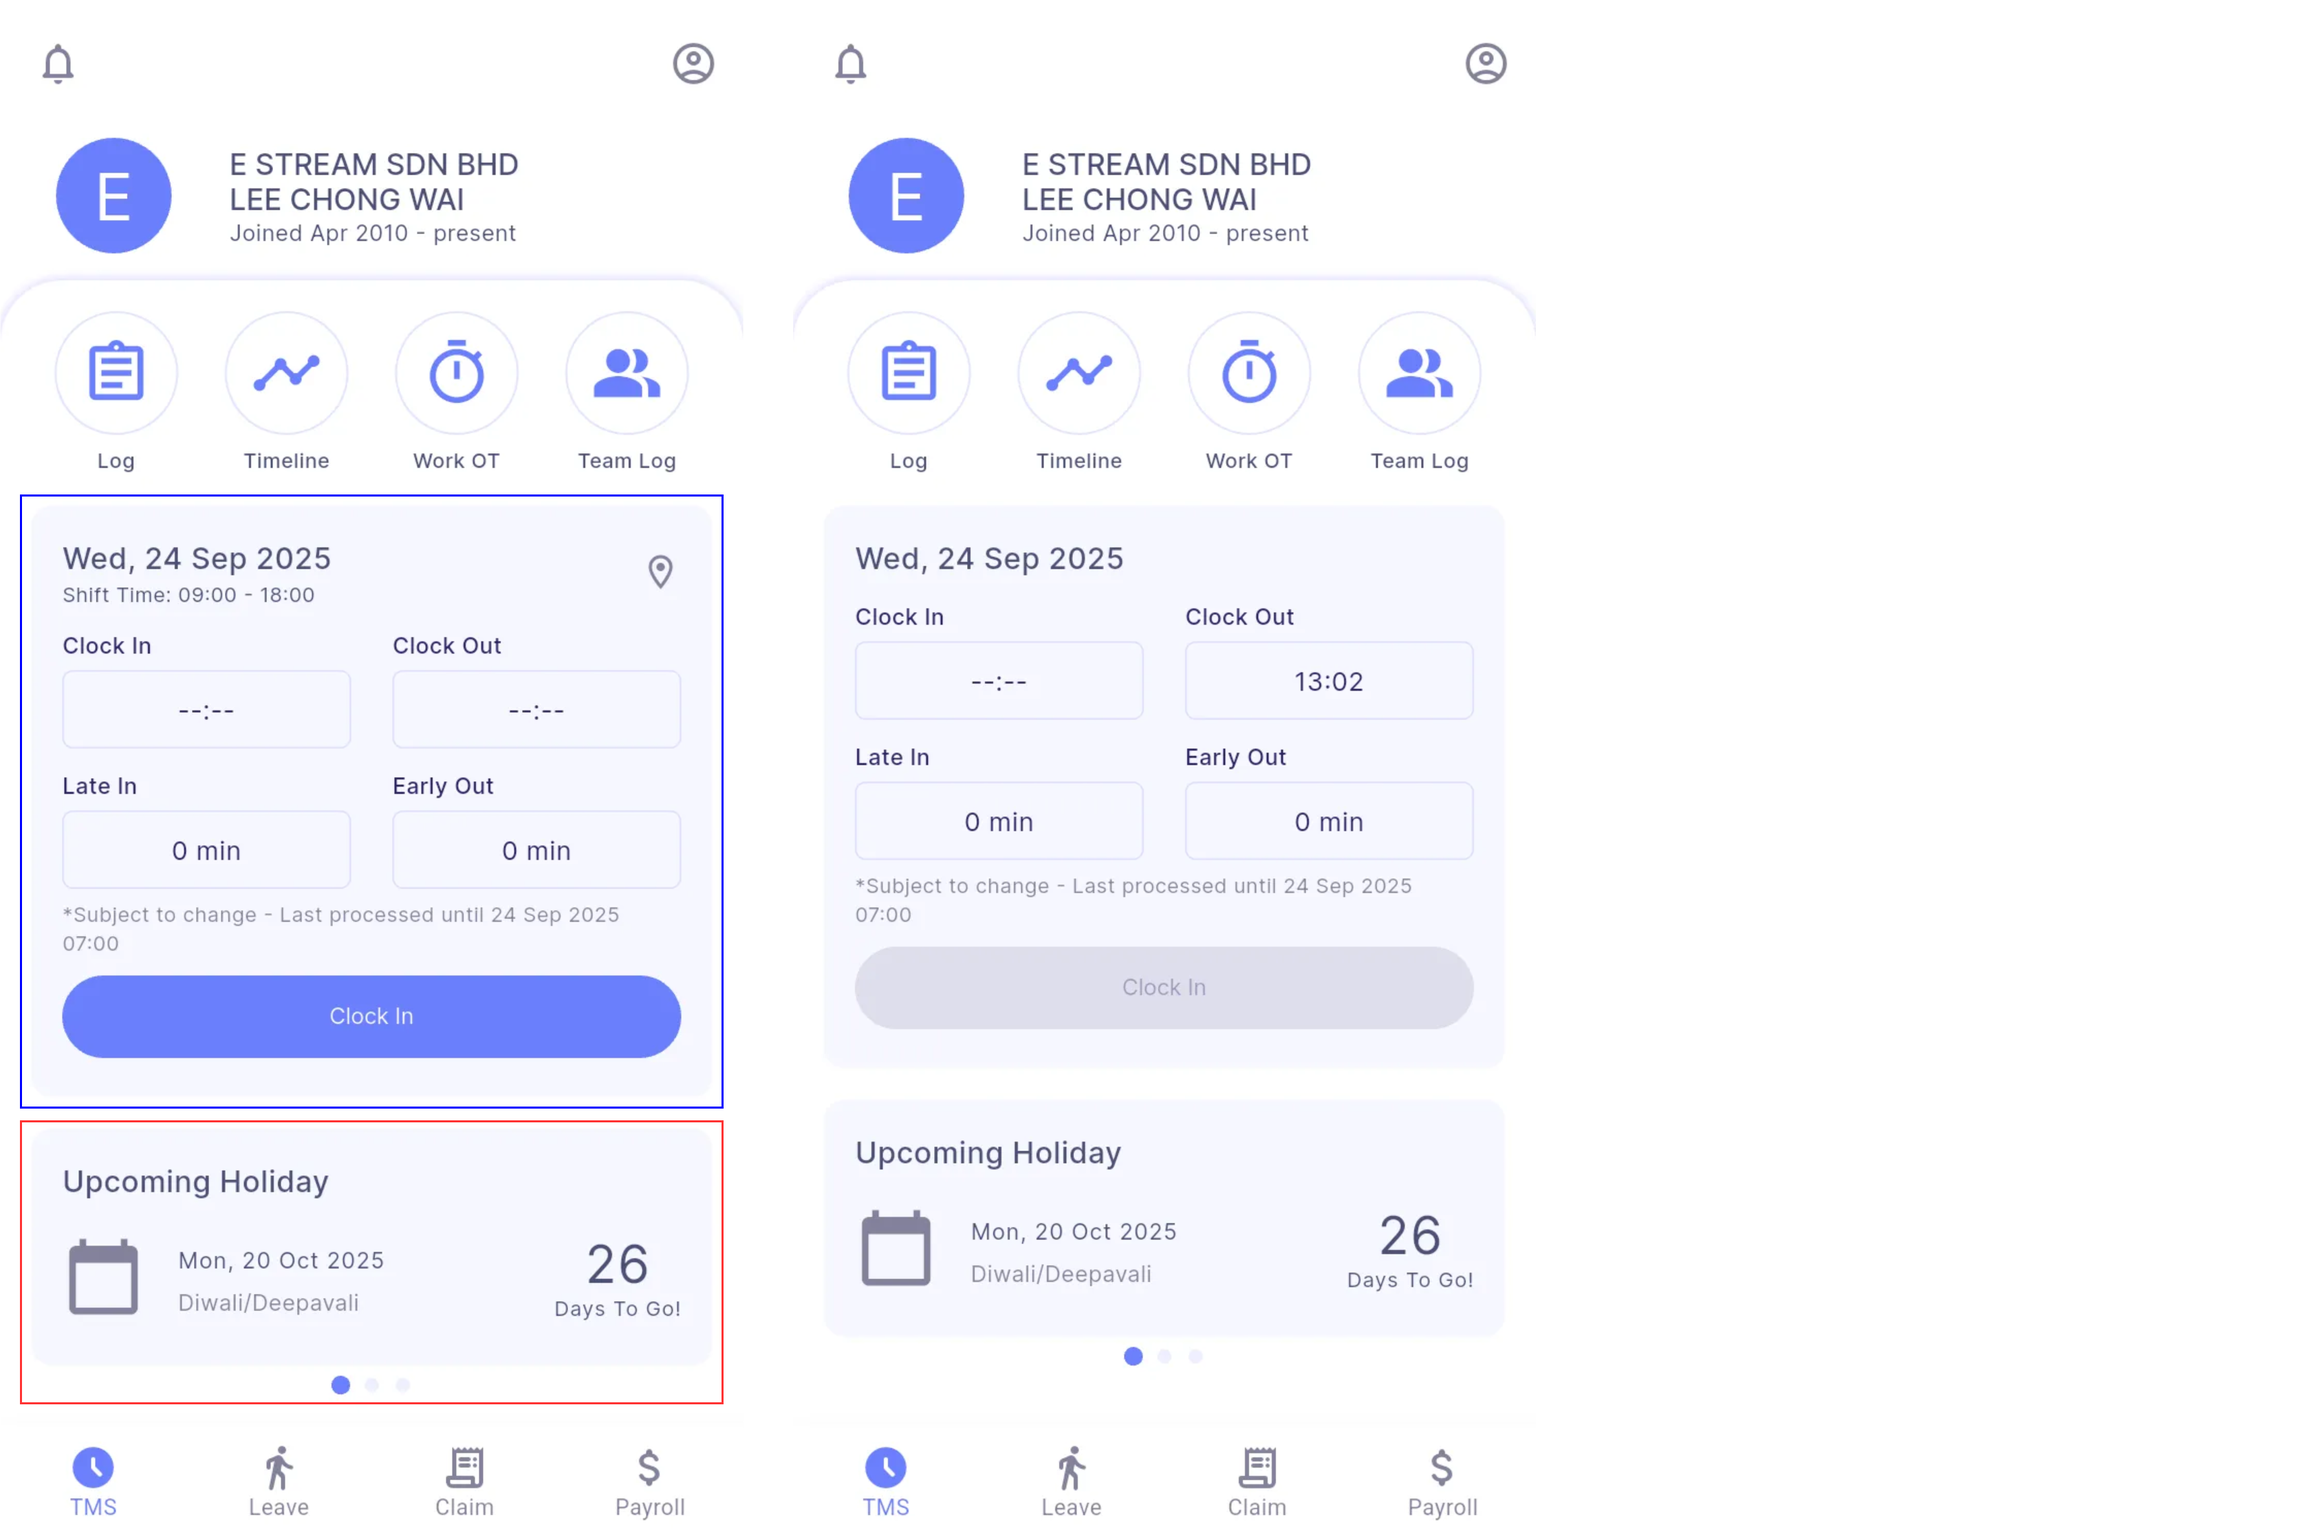
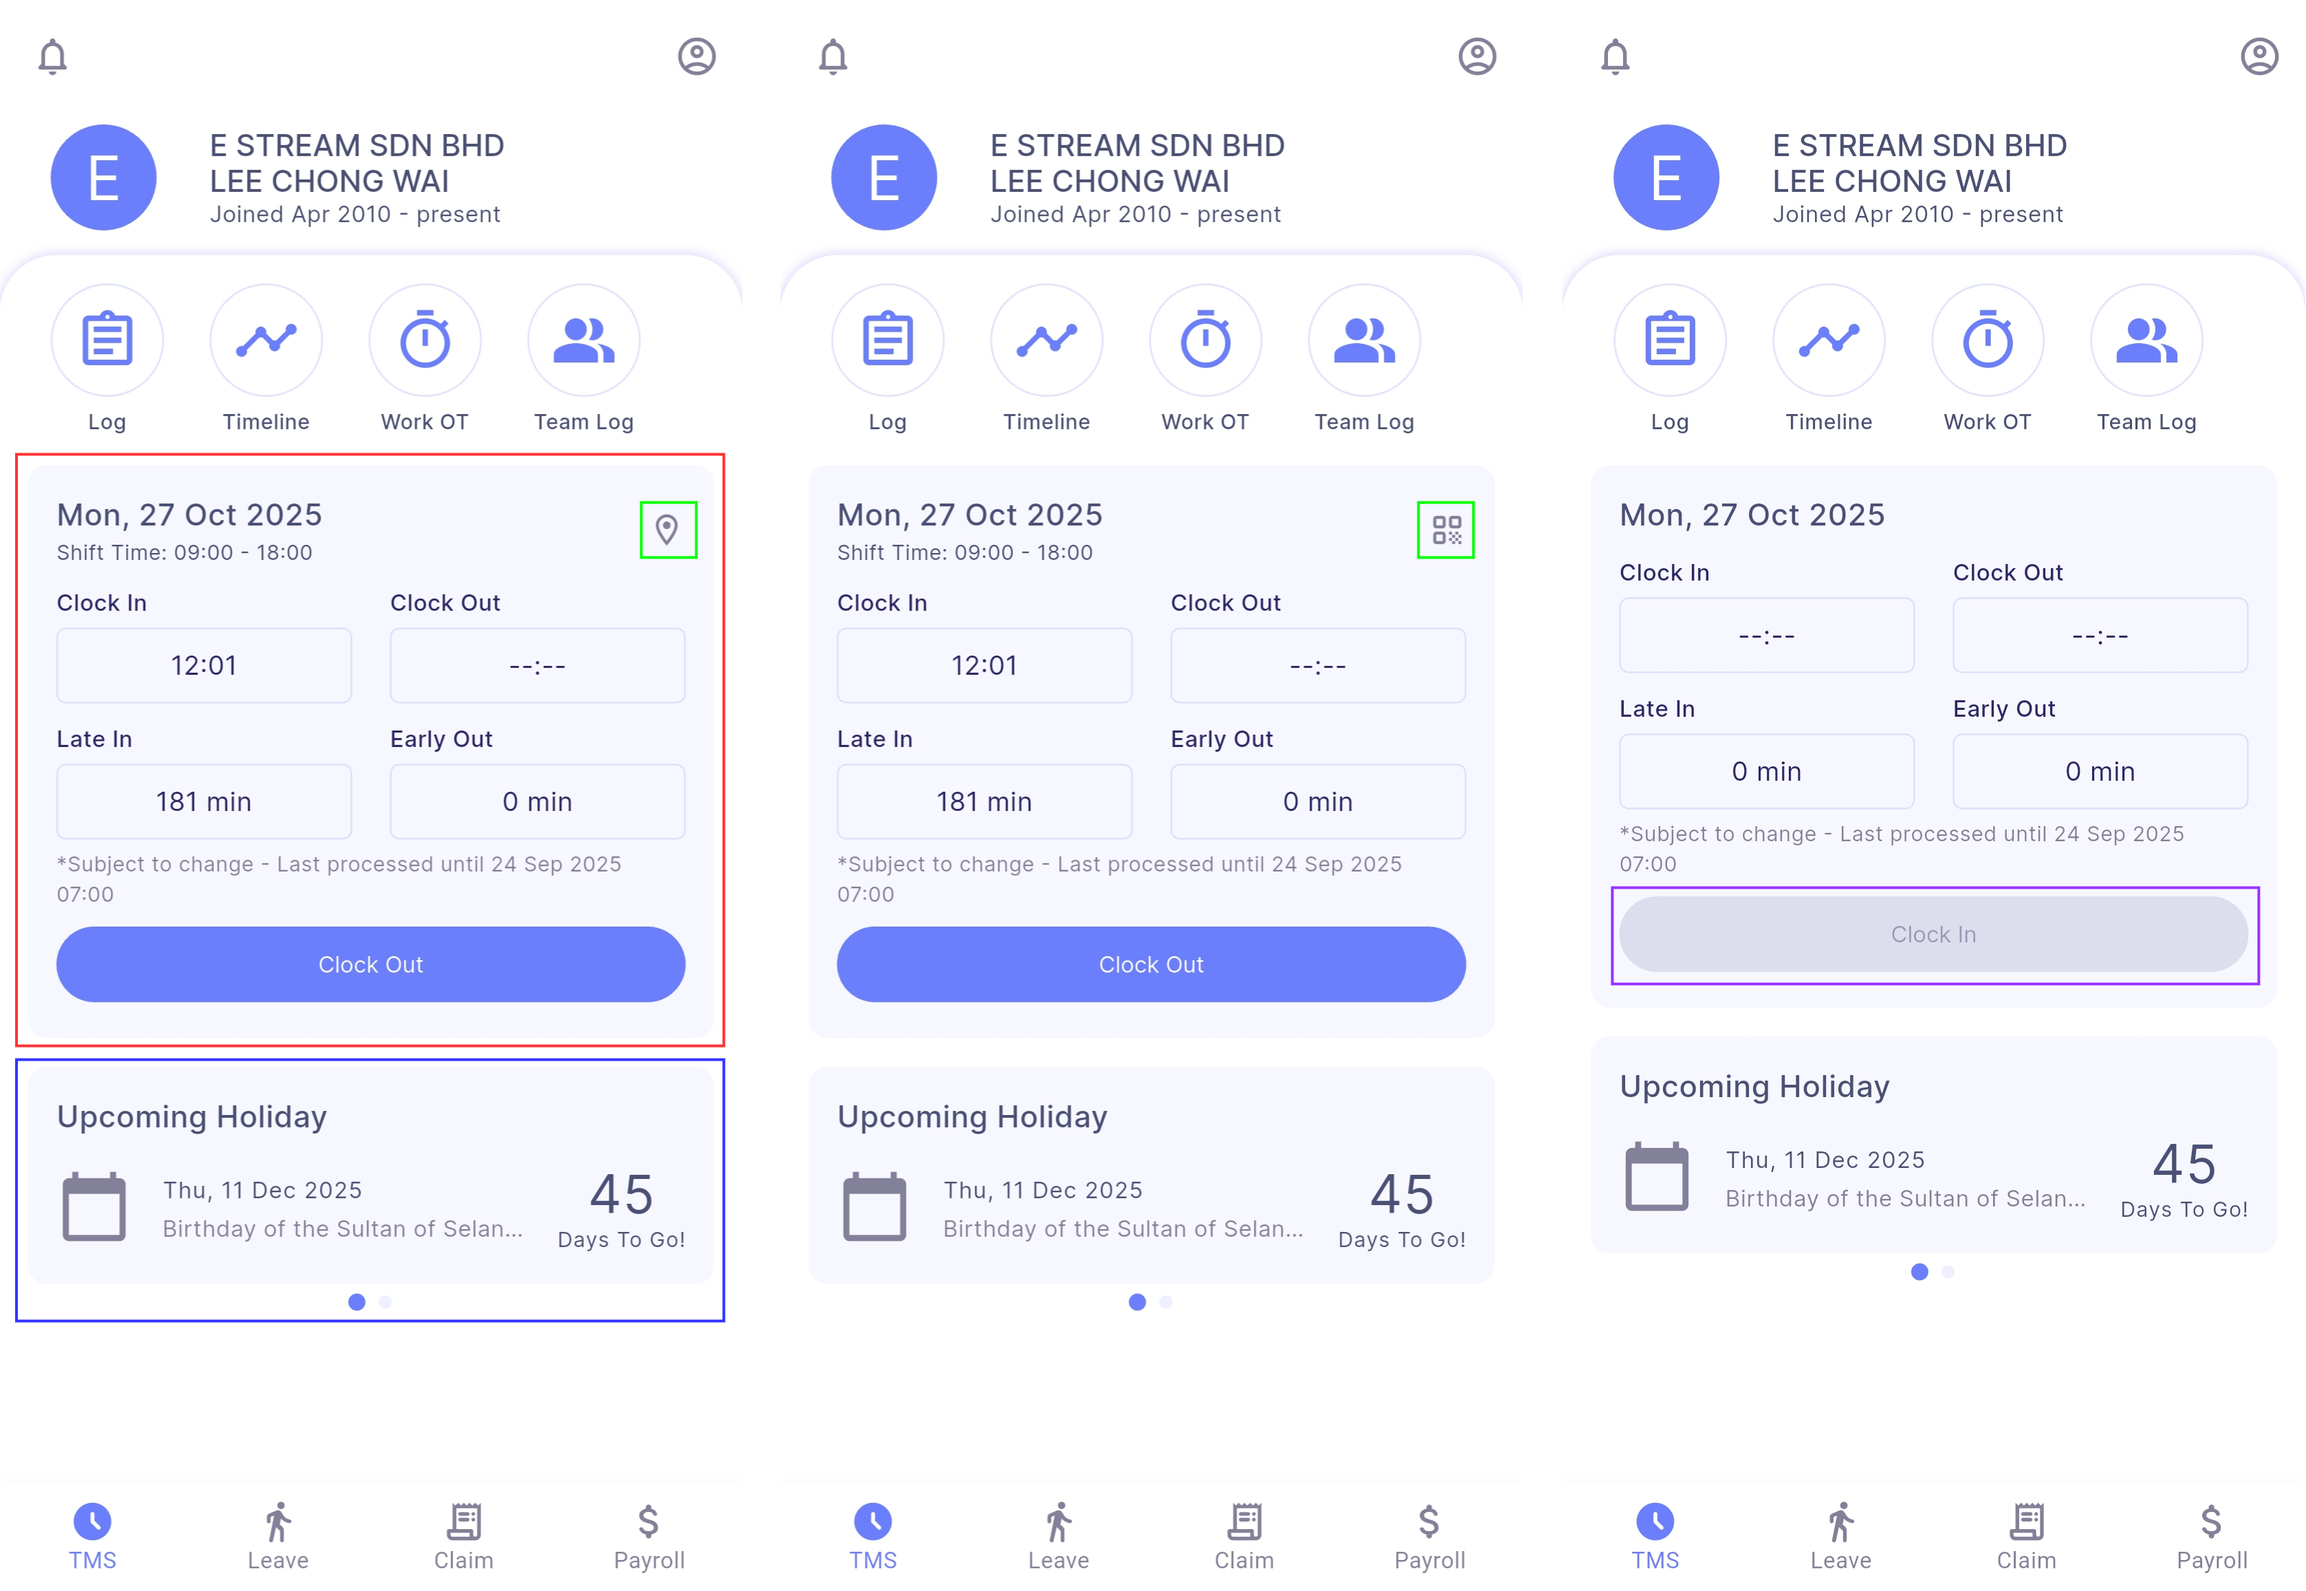
WIP: feat: add etms qr code guide

diff --git a/docs/integration/hrms/e-tms/app-usage.md b/docs/integration/hrms/e-tms/app-usage.md
@@ -13,14 +13,17 @@ Enable **Autostart** for SQL HRMS to ensure E TMS features work accordingly (ref
     ![dashboard](../../../../static/img/integration/hrms/e-tms/dashboard.png)  
 
 - **Session Card:** User's work session shift time
+    - Icon on the top right corner (green box) indicates the clock method (by GPS or QR) of the day. If there is no icon displayed, it means that user is not required to clock for that day  
     - It shows user's first Clock In and last Clock Out of the day with an estimated calculation of late in and early out
     - User can tap on the card to direct to User's Attendance Log
     - User can tap on the ***'Clock In' button*** to direct to Clock In / Clock Out page
-        - If no work session is assigned, the button will be disabled  
+        - If no work session is assigned or no clock method is selected, the button will be disabled  
 - **Upcoming Holiday:** User's upcoming public holidays
 
 
 ## Clock In / Clock Out
+
+### By GPS
 
 | **Button** | **Explanation** |
 | :--------- | :-------------- |
@@ -28,8 +31,8 @@ Enable **Autostart** for SQL HRMS to ensure E TMS features work accordingly (ref
 | ![clock-button2](../../../../static/img/integration/hrms/e-tms/clock-button2.png) | SQL HRMS app is trying to get user's current location | 
 | ![clock-button3](../../../../static/img/integration/hrms/e-tms/clock-button3.png) | User is not within work location. However, if user is really within their work location, SQL HRMS app will continuously try to get a more accurate position so that user will be able to Clock In / Clock Out | 
 | ![clock-button4](../../../../static/img/integration/hrms/e-tms/clock-button4.png) | User's location is mocked and is not allowed to Clock In / Out | 
-| ![clock-button5](../../../../static/img/integration/hrms/e-tms/clock-button5.png) | User is within work location and is allowed to Clock In | 
-| ![clock-button6](../../../../static/img/integration/hrms/e-tms/clock-button6.png) | User is within work location and is allowed to Clock Out | 
+| ![clock-button5](../../../../static/img/integration/hrms/e-tms/clock-button5.png) | User is within work location and is allowed to Clock In |  
+| ![clock-button6](../../../../static/img/integration/hrms/e-tms/clock-button6.png) | User is within work location and is allowed to Clock Out |  
 
 **Clock In**  
     
@@ -66,7 +69,34 @@ If user forget to clock out, the app will reset the time tracking after 10 hours
     - An earn replacement leave application will be posted when employee clocked out
     - When employee tap the ***'Clock Out' button***, a **'Claim As Leave'** dialog will be prompt that allows the employee to pick the leave type that they want to claim
 
-    ![clock-out7](../../../../static/img/integration/hrms/e-tms/clock-out7.png)
+    ![clock-out7](../../../../static/img/integration/hrms/e-tms/clock-out7.png)  
+
+### By QR  
+
+:::warning
+Screenshotting the QR Code is not allowed!
+:::
+
+| **Button** | **Explanation** |  
+| :--------- | :-------------- |  
+| ![clock-button7](../../../../static/img/integration/hrms/e-tms/clock-button7.png) | SQL HRMS app's Bluetooth service is unable to start. This may due to the following reasons: <br/><br/> 1. User's Bluetooth service is not enabled <br/> 2. The required nearby devices permission is not allowed <br/><br/> Refer [Bluetooth Service and Nearby Devices Permission](../permission#nearby-devices--bluetooth) |  
+| ![clock-button5](../../../../static/img/integration/hrms/e-tms/clock-button5.png) | User is allowed to Clock In |  
+| ![clock-button6](../../../../static/img/integration/hrms/e-tms/clock-button6.png) | User is allowed to Clock Out |  
+
+**Clock In**  
+
+    ![clock-in3](../../../../static/img/integration/hrms/e-tms/clock-in3.png)  
+
+- **'Attachments'** field will not be available  
+- Proceed to Clock In will generate a QR Code that will be scanned by SQL Clock In app  
+    - User can adjust the brightness of the screen with the slider  
+    - The QR Code will only be valid for 20s before user will need to regenerate a new QR Code  
+
+**Clock Out**  
+
+    ![clock-out8](../../../../static/img/integration/hrms/e-tms/clock-out8.png)  
+
+- If ***'Claim OT' switch*** is turned on, it will go through similar OT validations as *By GPS* before QR Code is generated  
 
 ### Work Location
 
@@ -86,7 +116,8 @@ User can view his own work session in calendar view
 
 - **Red font with purple box:** Public Holiday
 - **Purple box:** Rest Day
-- **Location icon:** Direct to Work Location page to view locations where the user is allowed to clock in / clock out on that day (refer [Work Location](#work-location))
+- **Icon (bottom right corner):** Clock Method
+- **Whole card:** Direct to [Work Location](#work-location) page to view locations where the user is allowed to clock in / clock out on that day
 
 ### Team Work Session
 

diff --git a/docs/integration/hrms/permission.md b/docs/integration/hrms/permission.md
@@ -146,4 +146,54 @@ If you have disabled this feature previously, you can skip all of the following 
 
 **Step 2:** Select ***'Allow Full Access'***  
 
-    ![ios-photo3](../../../static/img/integration/hrms/permission/ios-photo3.png)  
+    ![ios-photo3](../../../static/img/integration/hrms/permission/ios-photo3.png)
+
+## Nearby Devices / Bluetooth
+
+### Android  
+
+**From SQL HRMS app**  
+
+:::info
+For **Android 11 and below**, may skip to Step 2  
+:::
+
+**Step 1:** Select ***'Allow'***   
+
+    ![android-bluetooth1](../../../static/img/integration/hrms/permission/android-bluetooth1.png)
+
+**Step 2:** Turn on ***Bluetooth service***  
+
+    ![android-bluetooth2](../../../static/img/integration/hrms/permission/android-bluetooth2.png)
+
+**From Device Settings**  
+
+:::info
+Only for **Android 12 and above**  
+:::
+
+**Step:** App Info | App permissions | Nearby devices | Select ***'Allow'***  
+
+    ![android-bluetooth3](../../../static/img/integration/hrms/permission/android-bluetooth3.png)  
+
+### iOS
+
+**From SQL HRMS app**  
+
+**Step 1:** Select ***'Allow'***  
+
+    ![ios-bluetooth1](../../../static/img/integration/hrms/permission/ios-bluetooth1.png)  
+
+**Step 2:** Select ***'Settings'*** | Toggle ***'Bluetooth'*** on | Return to SQL HRMS   
+
+    ![ios-bluetooth2](../../../static/img/integration/hrms/permission/ios-bluetooth2.png)  
+
+**From Device Settings**  
+
+**Step 1:** Settings | Search for ***'SQL HRMS'*** | Toggle ***'Bluetooth'*** on  
+
+    ![ios-bluetooth3](../../../static/img/integration/hrms/permission/ios-bluetooth3.png)  
+
+**Step 2:** Settings | Bluetooth | Toggle ***'Bluetooth'*** on  
+
+    ![ios-bluetooth4](../../../static/img/integration/hrms/permission/ios-bluetooth4.png)  

diff --git a/docs/integration/hrms/e-tms/payroll-setup.md b/docs/integration/hrms/e-tms/payroll-setup.md
@@ -66,12 +66,24 @@ Option 2: Click on ***'P' button*** | Select date
 **Step 3:** Enter Break Time
 - May add up to 3 break times
 
-**Step 4:** Select Rules  
-- ***'Clock In / Clock Out' checkbox:*** Requires to clock in / out in SQL HRMS app
-- ***'GPS Monitoring' checkbox:*** Post status update if employee left work location
+**Step 4:** Select a Clock Method
+- ***'GPS' checkbox:*** Clock in / out using employee's location in SQL HRMS app
+- ***'QR' checkbox:*** Clock in / out using QR Code generated from SQL HRMS app and scan it on SQL Clock In app
+
+:::info
+1. Only one clock method can be selected. However, if none of the clock method is selected, then the clock in / out button in SQL HRMS app will be disabled and employee does not require to clock in / out.
+2. Clock Method on days without work session, public holiday and rest day is by default **GPS**.
+:::
+
+**Step 5:** Select Rules  
+- ***'GPS Monitoring' checkbox:*** Post status update if employee left work location 
 - ***'Site Photo' checkbox:*** Requires to take photo before clock in / out (User cannot upload picture from album)
 
-**Step 5:** Save
+:::info
+***'GPS Monitoring'*** and ***'Site Photo'*** will be disabled if ***'QR'*** or ***no clock method*** is selected
+:::
+
+**Step 6:** Save  
 
 **Optional**
 - User may select ***'Leave Rules'*** if applicable
